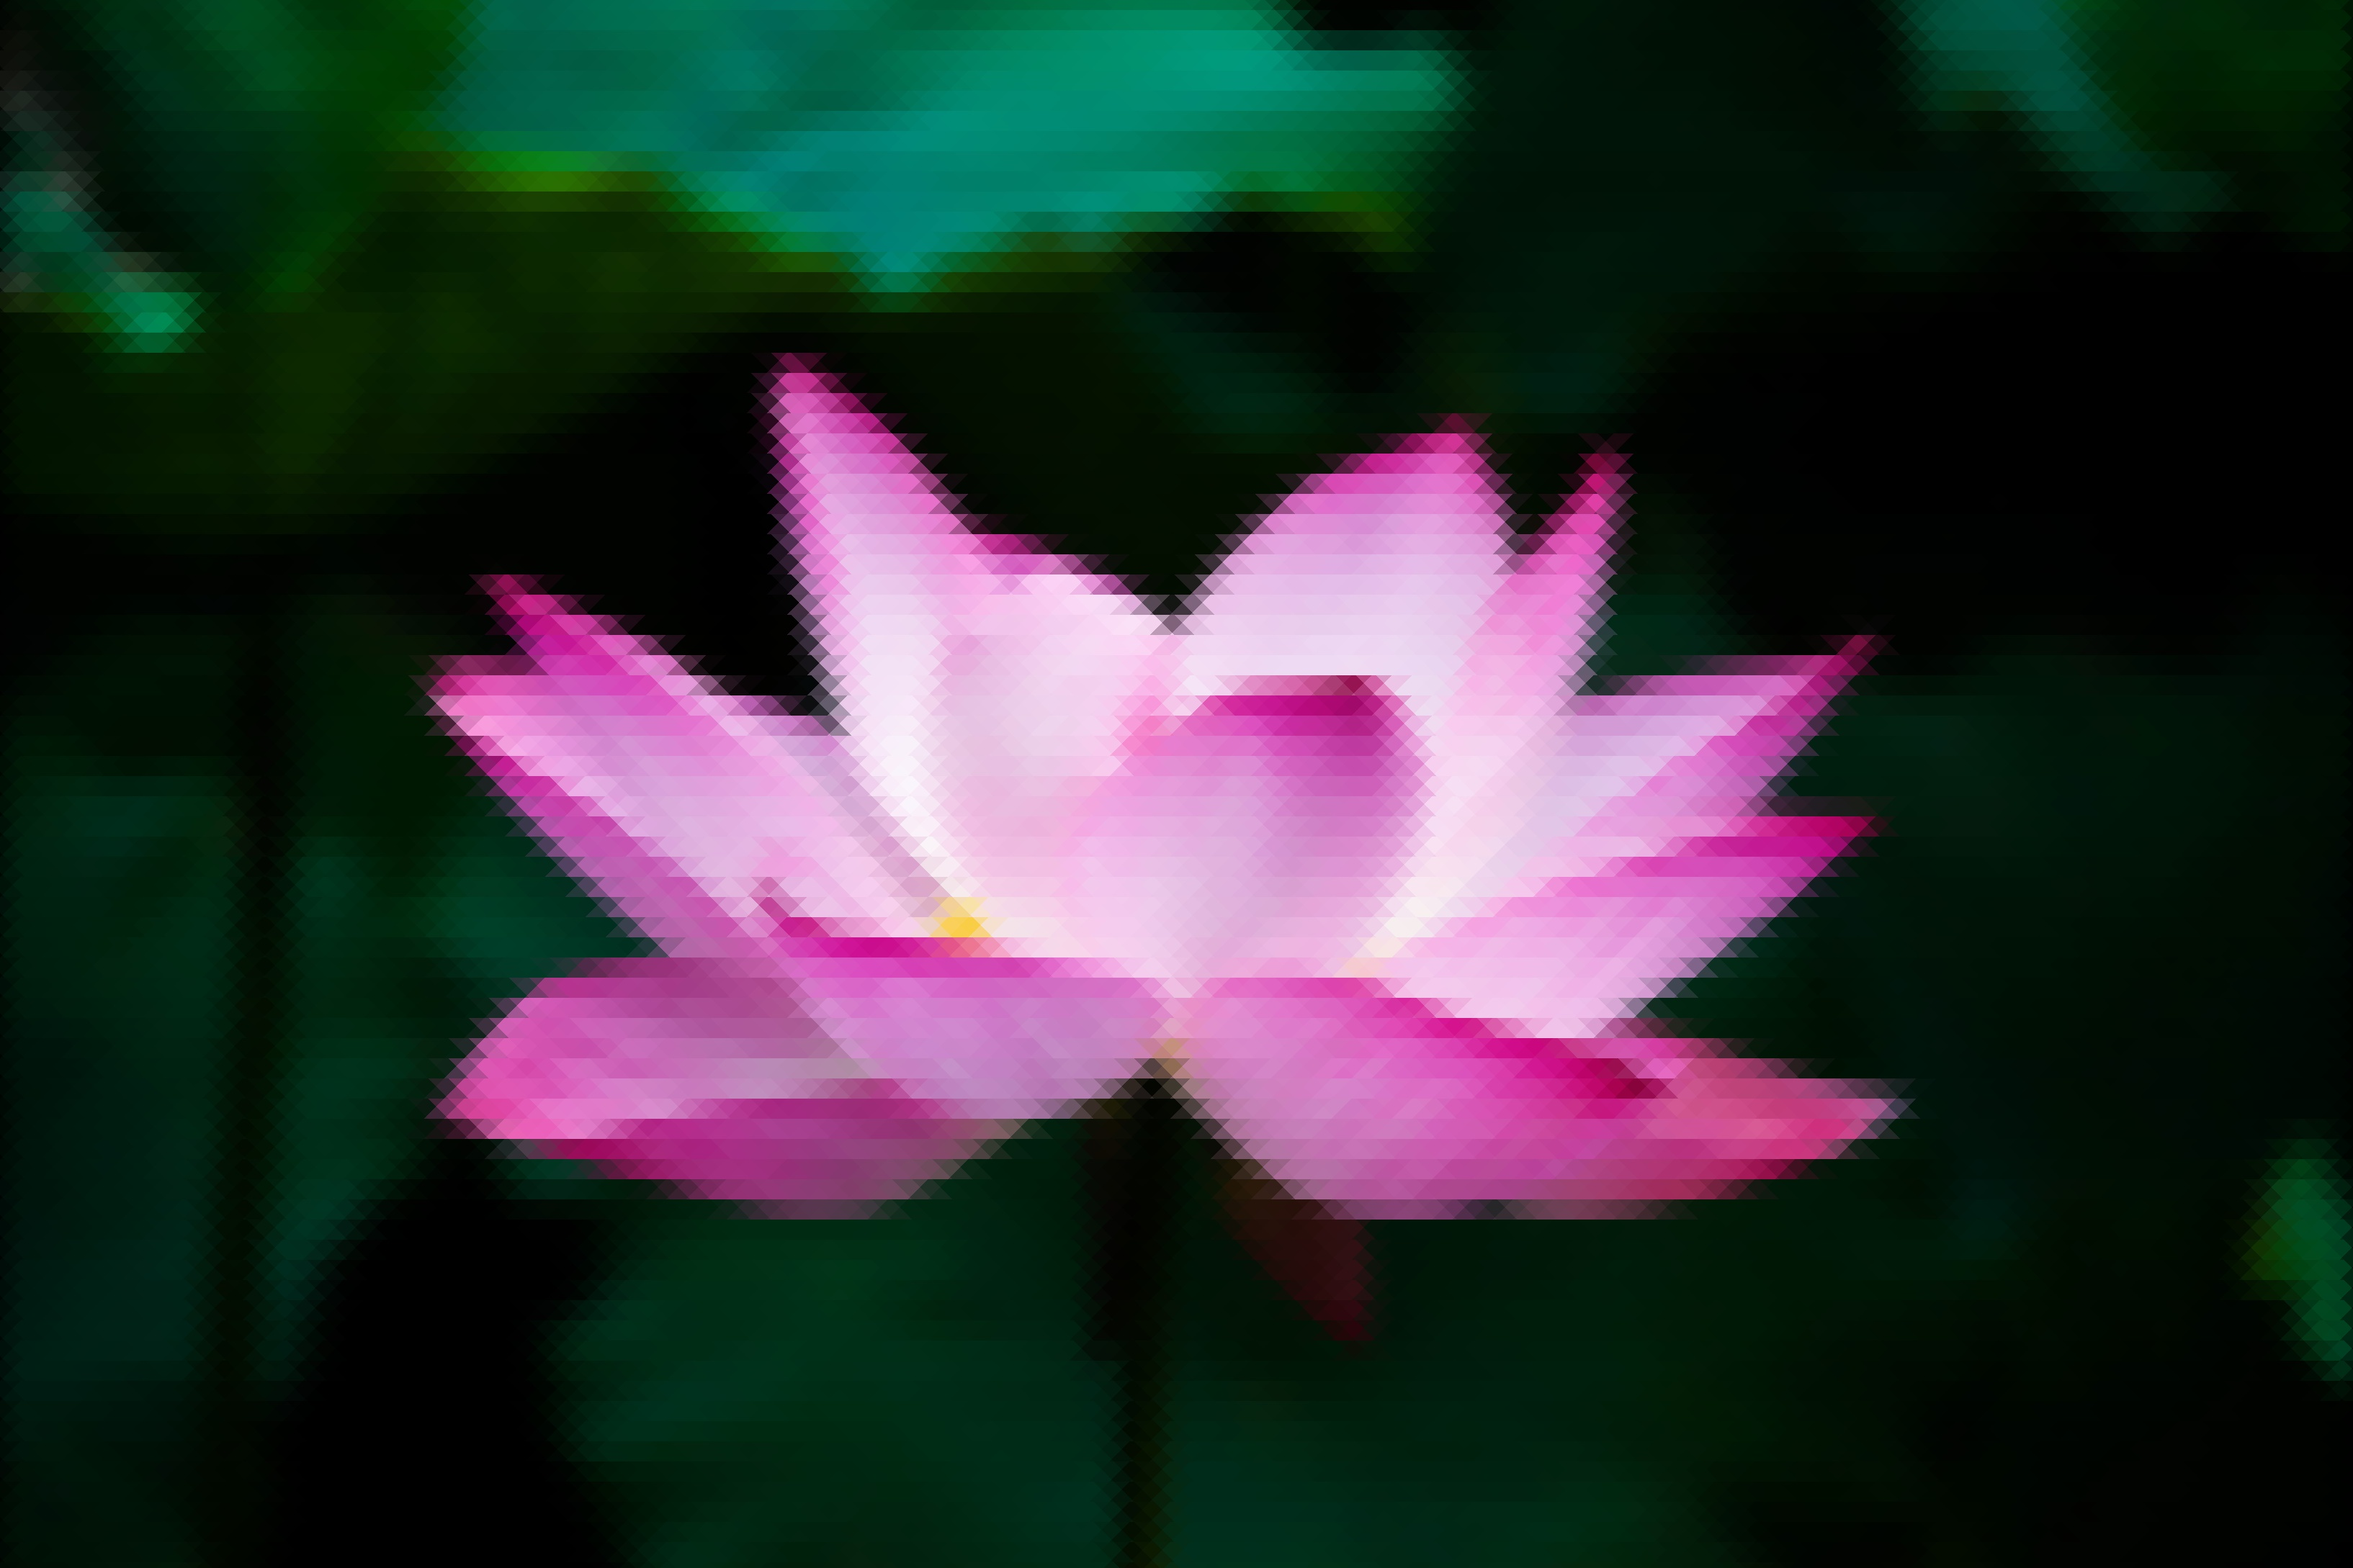
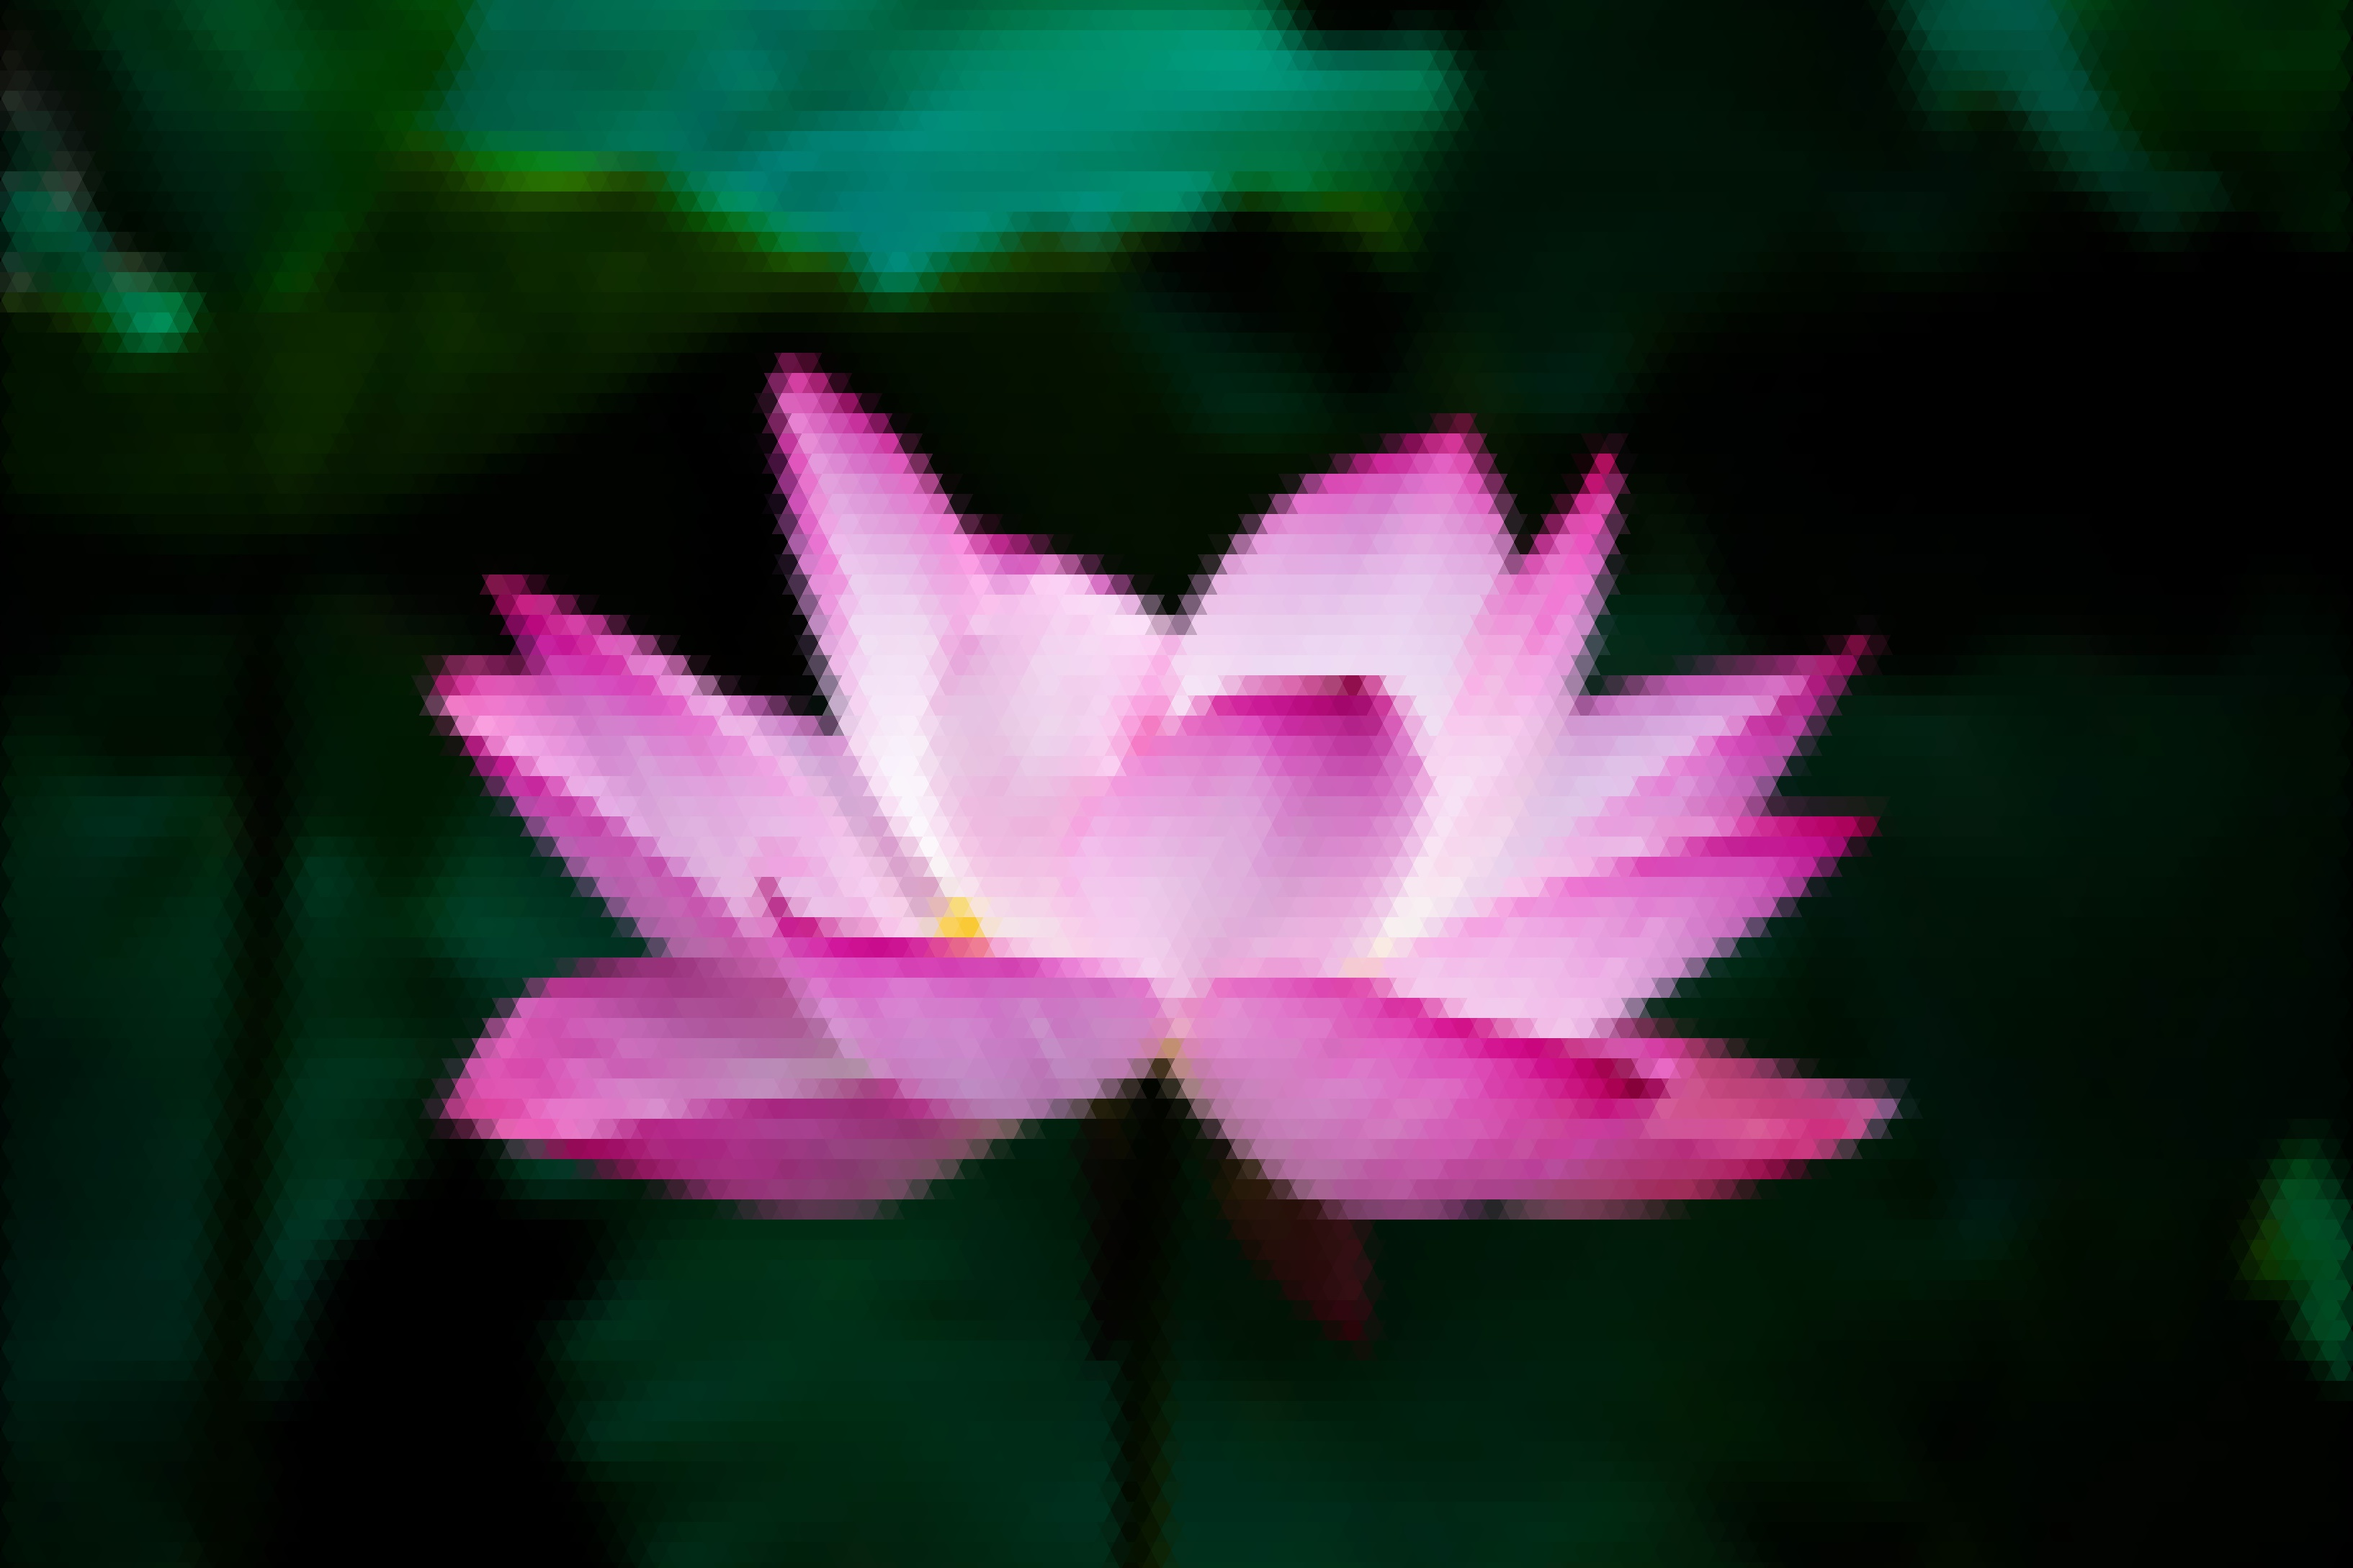
Updated

diff --git a/src/imTriangle.py b/src/imTriangle.py
@@ -3,43 +3,50 @@ from imPixelate import pix
 import numba
 
 @numba.njit()
-def _crook(image, RTL=True):
+def _crook(image, coef=0.5, RTL=True):
     [h, w] = image.shape
     fixed_image = image.copy()
-    crooked_image = np.zeros((h, w+h-1))
+    hh = h
+    ww = int(w+ coef*h - coef)
+    crooked_image = np.zeros((hh, ww))
     for i in range(h):
+        if int(coef*i) == coef*i:
+            coefi = int(coef*i)
         if RTL:
-            crooked_image[i, 0+i:w+i] = image[i, :]
+            crooked_image[i, 0+coefi:w+coefi] = image[i, :]
         else:
-            crooked_image[i, h-1-i:w+h-1-i] = image[i, :]
+            crooked_image[i, ww-w-coefi:ww-coefi] = image[i, :]
     return crooked_image
 
 @numba.njit()
-def _decrook(crooked_image, RTL=True):                  
+def _decrook(crooked_image, ww, coef=0.5, RTL=True):                  
     [h, w] = crooked_image.shape
-    fixed_image = np.zeros((h, w-h+1))
+    hh = h
+    fixed_image = np.zeros((hh, ww))
     for i in range(h):
+        if int(coef*i) == coef*i:
+            coefi = int(coef*i)
         if RTL:
-            fixed_image[i, :] = crooked_image[i, 0+i:w-h+1+i]
+            fixed_image[i, :] = crooked_image[i, 0+coefi:ww+coefi]
         else:
-            fixed_image[i, :] = crooked_image[i, h-1-i:w-i]
+            fixed_image[i, :] = crooked_image[i, w-ww-coefi:w-coefi]
     return fixed_image
 
 @numba.njit()
-def triangle(image, r = 0):
+def triangle(image, r = 0, coef=0.5):
     h = image.shape[0]
     w = image.shape[1]
     if r==0:
         r = min(h, w)//150
-    image_crooked_left = _crook(image, RTL=True)
+    image_crooked_left = _crook(image, coef=coef, RTL=True)
     image_pix_crooked_left = pix(image_crooked_left, r)
-    image_pix_decrooked_left = _decrook(image_pix_crooked_left, RTL=True)
+    image_pix_decrooked_left = _decrook(image_pix_crooked_left, w, coef=coef, RTL=True)
     
-    image_crooked_right = _crook(image, RTL=False)
+    image_crooked_right = _crook(image, coef=coef, RTL=False)
     image_pix_crooked_right = pix(image_crooked_right, r)
-    image_pix_decrooked_right = _decrook(image_pix_crooked_right, RTL=False)
+    image_pix_decrooked_right = _decrook(image_pix_crooked_right, w, coef=coef, RTL=False)
     
-    return ((image_pix_decrooked_right+image_pix_decrooked_left)/2).astype(image.dtype)
+    return ((image_pix_decrooked_right+image_pix_decrooked_left)//2).astype(image.dtype)
 
 
 

diff --git a/code-example/test_imTriangle.py b/code-example/test_imTriangle.py
@@ -12,7 +12,7 @@ img_out = img.copy()
 
 [h, w, d] = img.shape
 for i in range(d):
-    img_out[:, :, i] = triangle(img[:, :, i].copy())
+    img_out[:, :, i] = triangle(img[:, :, i].copy(), coef=0.5)
 
 
     
